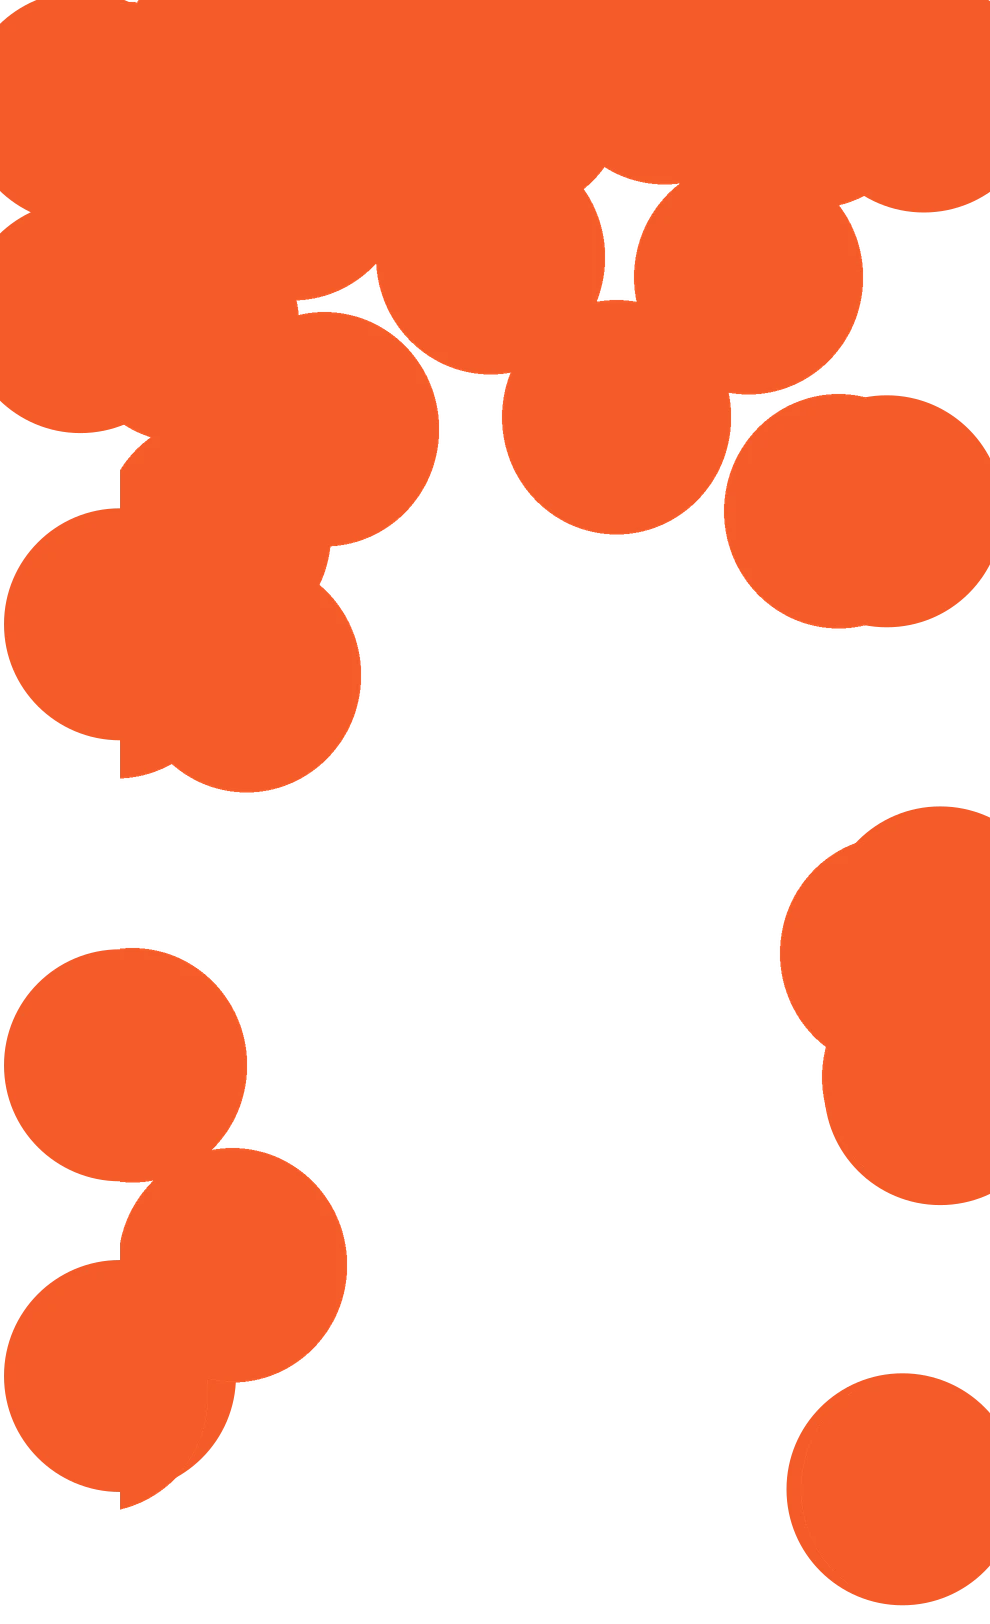
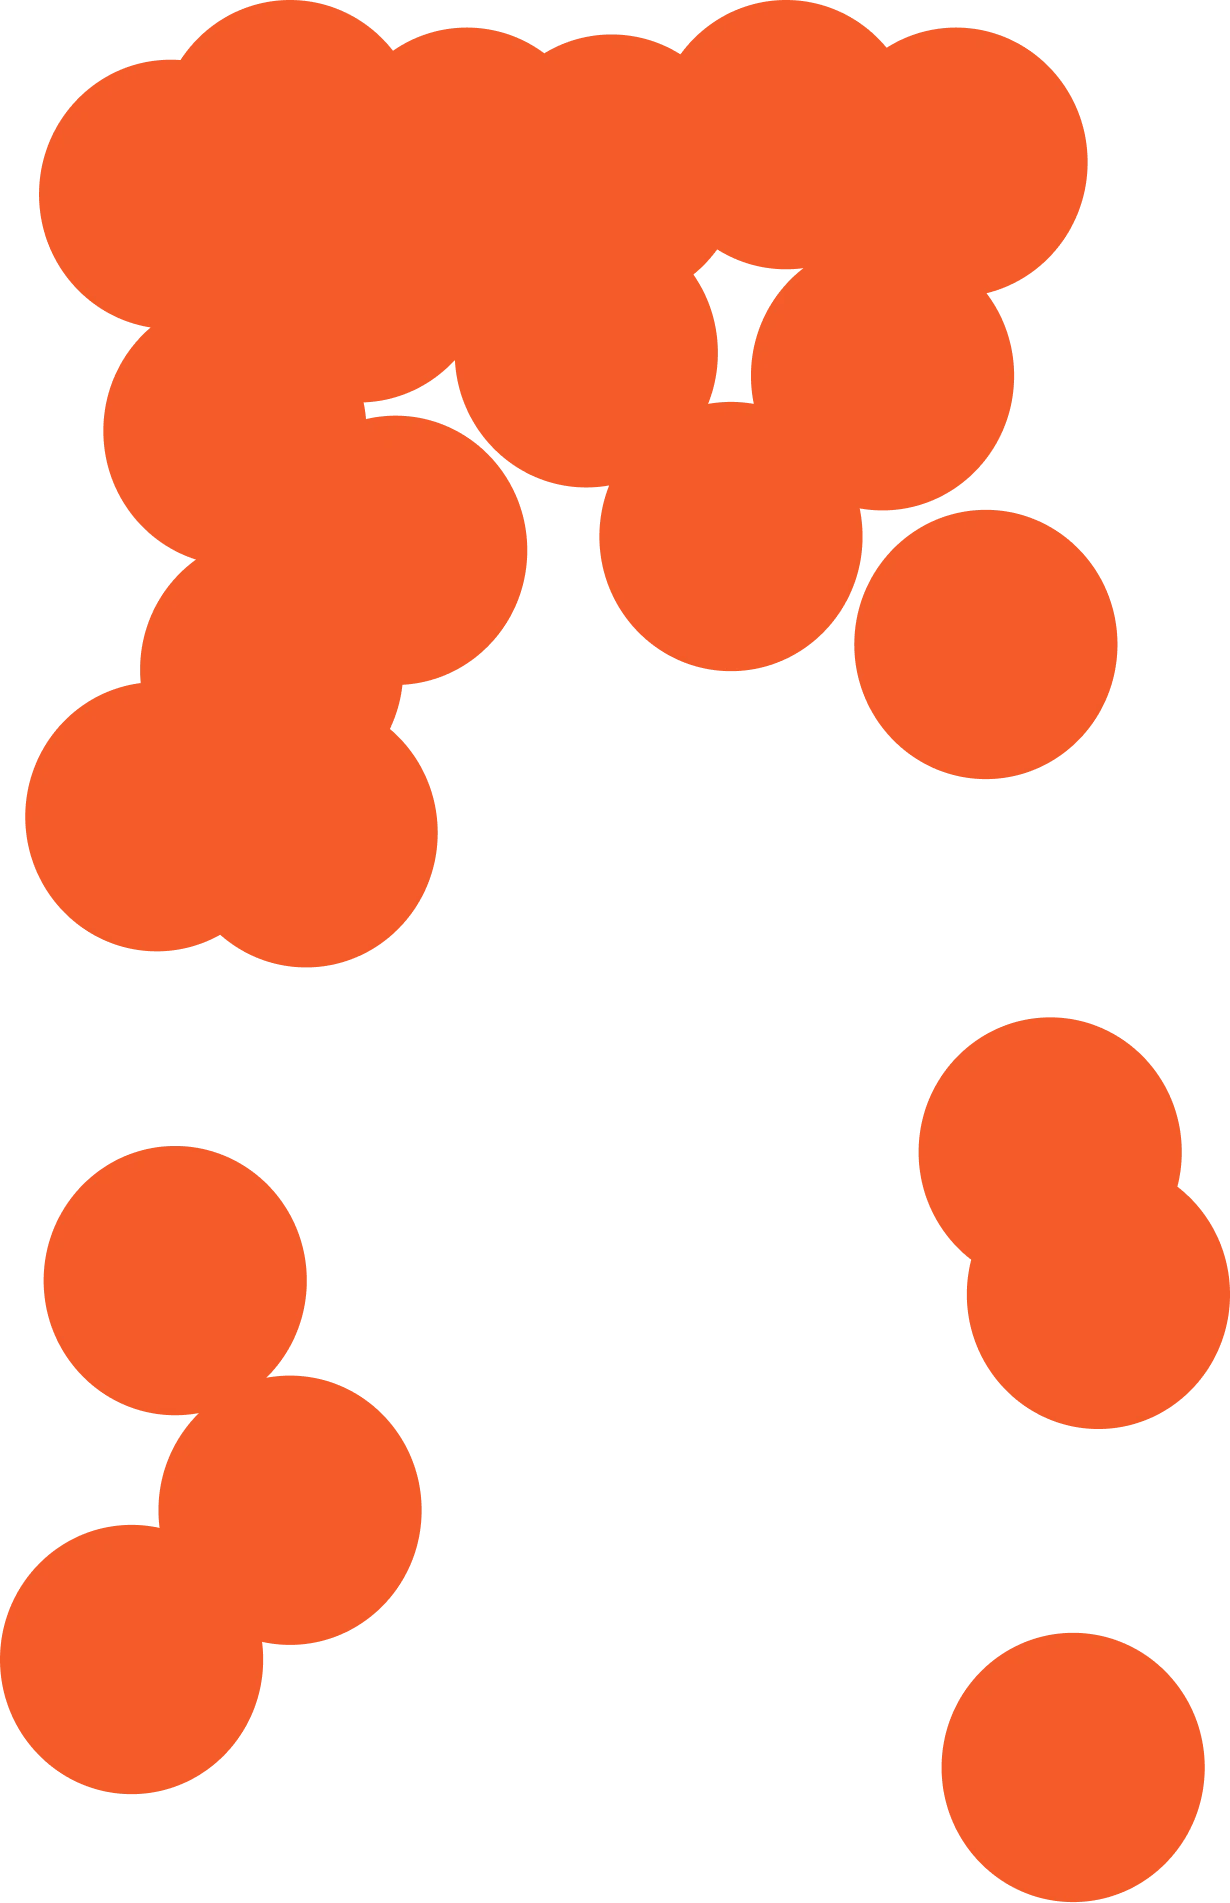
Use hand-authored whole-circle location blobs asset
The owner supplied a hand-authored blob asset with whole (un-cut) top
circles (materials/files/slide4/location_circles.png) to fix the
flat-cut top the generated versions produced. Convert it to WebP and
place it: 545px wide (~85px past the 375 column each side so desktop
margins show whole circles), centered, with a -38px top so the top
circles sit at the section-3 seam as in the reference. On mobile the
column edge still cuts the side circles (the intended phone design);
the map is slightly more covered than before, which the owner is happy
with. Removes the now-unused extraction script.

diff --git a/src/styles/sections.css b/src/styles/sections.css
@@ -354,15 +354,18 @@
 }
 
 /* Painted over the map iframe (the design's circles clip the map corners);
-   pointer-events off so the map stays interactive. The asset is 495px wide
-   (60px wider than the column on each side): circles that the reference cuts
-   at the screen edge are completed, so desktop margins show whole circles. */
+   pointer-events off so the map stays interactive. Hand-authored asset
+   (materials/files/slide4/location_circles.png) of whole circles, ~85px
+   wider than the 375px column on each side so desktop margins show whole
+   circles and the top row reads as rounded tops (not a flat cut). Centered
+   on the column; the negative top lets the top circles sit at the section-3
+   seam exactly as in the reference. */
 .s4__blobs {
   position: absolute;
   left: 50%;
-  top: 0;
+  top: -38px;
   transform: translateX(-50%);
-  width: 495px;
+  width: 545px;
   max-width: none;
   height: 812px;
   z-index: 2;